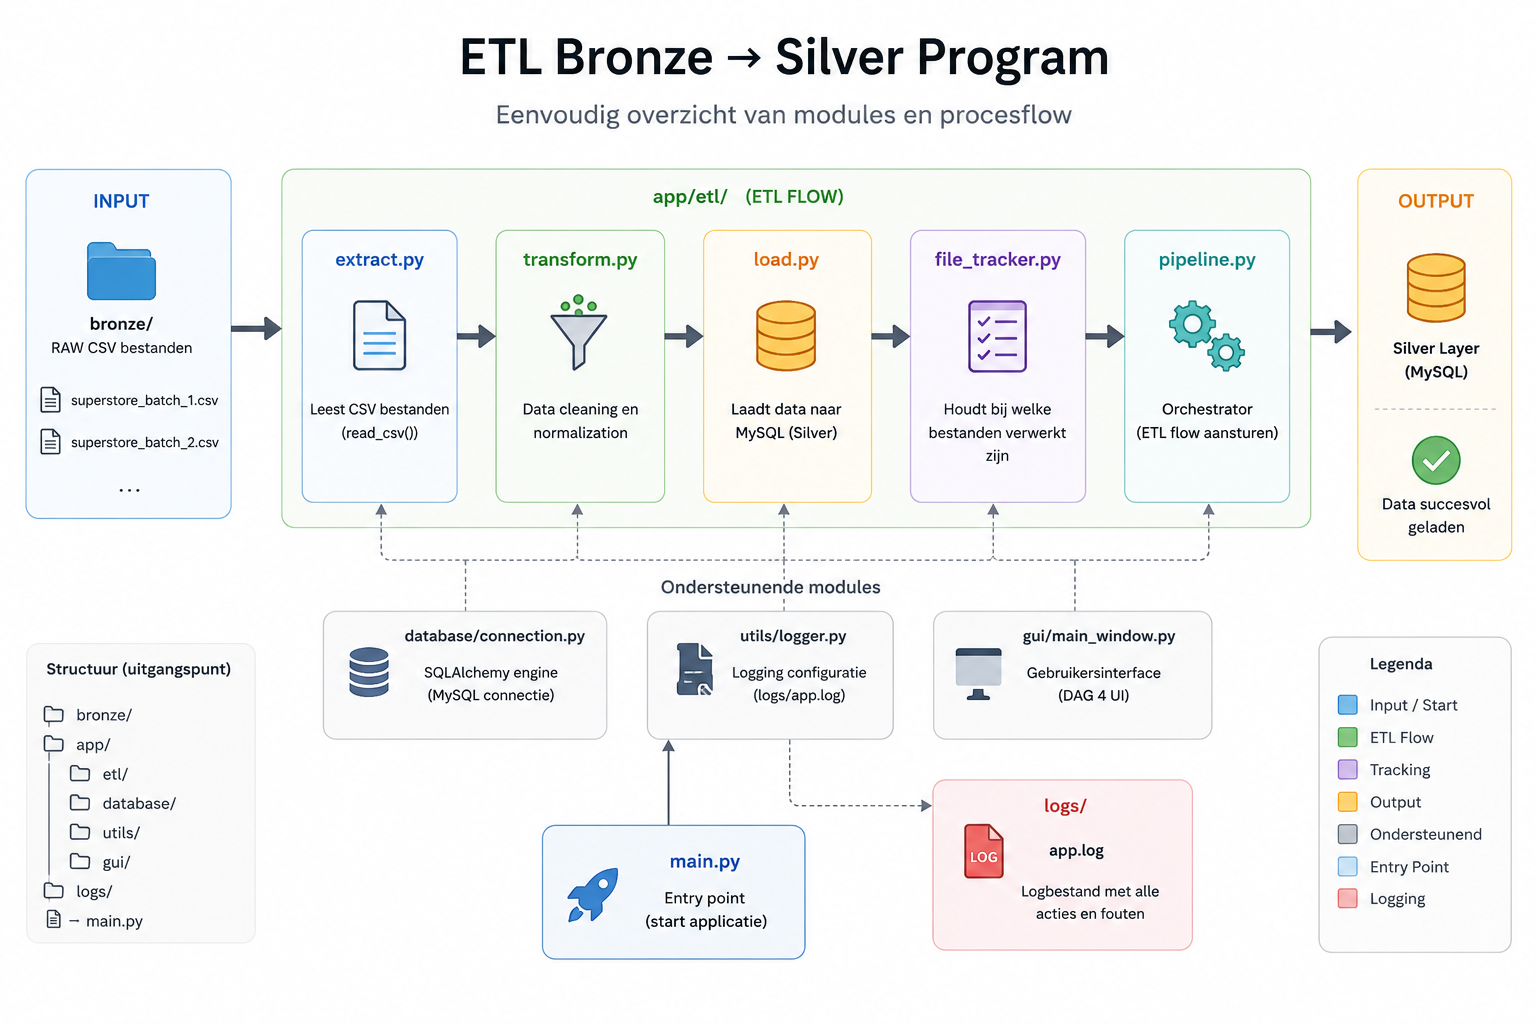
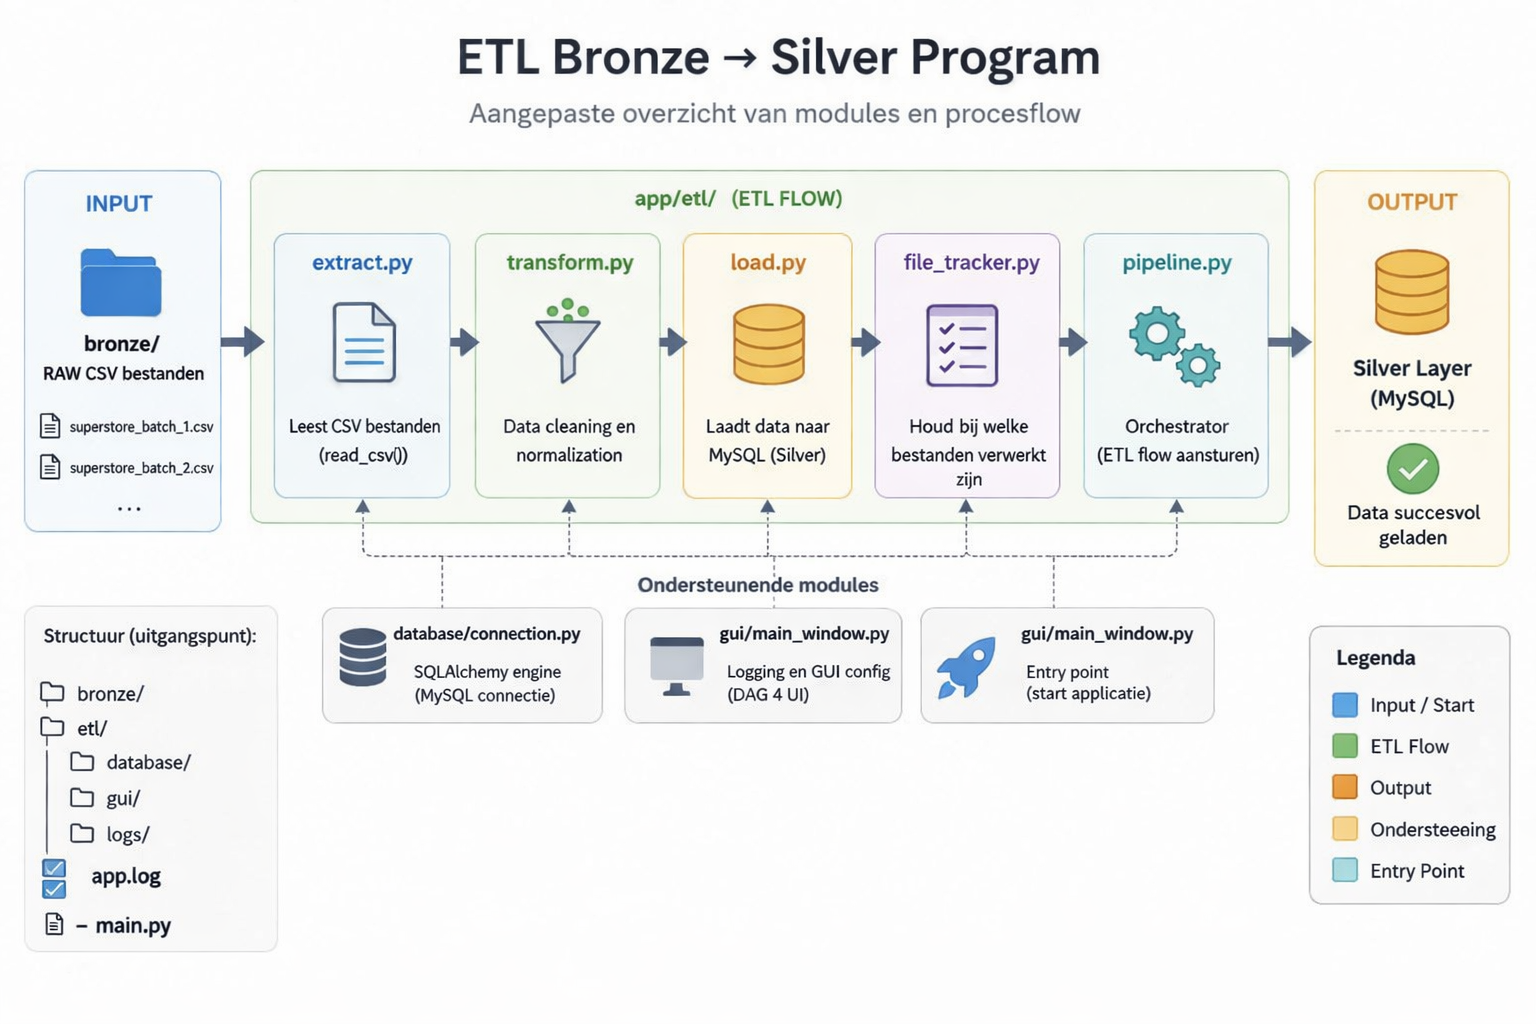
Final commit

diff --git a/app/etl/file_tracker.py b/app/etl/file_tracker.py
@@ -1,6 +1,6 @@
 from sqlalchemy import text
 
-
+# controleren of input bestand al eerder verwerkt is
 def is_file_processed(engine, file_name):
 
     # Open database connectie
@@ -19,7 +19,7 @@ def is_file_processed(engine, file_name):
 
     return result > 0
 
-
+# markeert het input bestand als verwerkt
 def mark_file_processed(engine, file_name):
 
     # Open database transactie

diff --git a/app/utils/logger.py b/app/utils/logger.py
@@ -1,5 +1,5 @@
 import logging
 
-# Dit bestand configureert GEEN logging meer.
+# Dit bestand configureert GEEN logging dat gebeurd in main_window.py.
 # Het zorgt er alleen voor dat ETL-modules logging kunnen gebruiken.
 logger = logging.getLogger(__name__)
